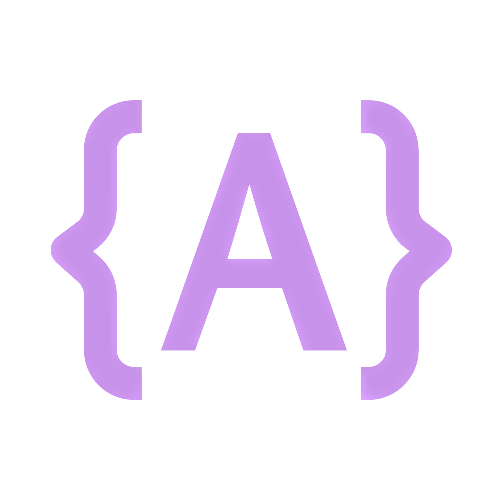
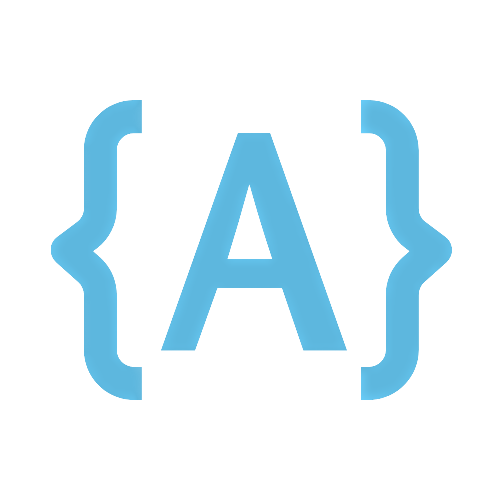
colors

Changed region(s): [[0.33, 0.24, 0.69, 0.72], [0.09, 0.18, 0.3, 0.81], [0.72, 0.18, 0.9, 0.81]]

diff --git a/assets/css/styles.min.css b/assets/css/styles.min.css
@@ -1,1 +1,1 @@
-body{font-family:"Open Sans",sans-serif;background:#292d3e;color:#c3e88d;margin:0}section{margin:20px 0 0 0;text-align:center}section .section-title{text-align:center;font-size:32px;font-weight:bold;text-transform:uppercase;margin:0 0 20px 0;padding:0 0 20px 0;position:relative}section .section-title::before{content:"";position:absolute;display:block;width:120px;height:1px;background:#ddd;bottom:1px;left:calc(50% - 60px)}section .section-title::after{content:"";position:absolute;display:block;width:40px;height:3px;background:#c792e9;bottom:0;left:calc(50% - 20px)}section .section-content{margin:120px 0 160px 160px}a:link{text-decoration:none}a:visited{text-decoration:none}@media screen and (min-width: 768px)and (max-width: 1024px){section .section-content{margin:80px 40px 0 40px}}@media screen and (max-width: 768px){section{margin:0 40px 0 40px;padding:30px 0}section .section-content{margin:40px 0 0 0}}.presentation{height:100vh;margin:0 160px 0 160px;display:grid;place-items:center}@media screen and (max-width: 768px){.presentation{margin:0 0 0 0;text-align:center}}.presentation .section-content{display:flex;flex-direction:row;justify-content:center;align-items:flex-start;margin:0;text-align:left}@media screen and (max-width: 768px){.presentation .section-content{flex-direction:column;text-align:center}}.presentation .section-content .container{padding:20px}@media screen and (max-width: 768px){.presentation .section-content .container{width:100%;padding:0}}.presentation .section-content .container img{max-height:75px;width:auto;margin:0 0 25px 0}.presentation .section-content .container h1{margin:0;font-size:48px;font-weight:700;line-height:56px}@media screen and (max-width: 768px){.presentation .section-content .container h1{font-size:42px}}.presentation .section-content .container p{font-size:24px;margin:10px 0 0 0}@media screen and (max-width: 768px){.presentation .section-content .container p{font-size:18px;margin:0 0 0 0}}.presentation .section-content .container span{font-size:24px;color:#c792e9;margin:0}@media screen and (max-width: 768px){.presentation .section-content .container span{font-size:18px}}.presentation .section-content .container .social-links{margin:20px 0 0 0}.presentation .section-content .container .social-links img{height:32px;margin:10px;color:#c3e88d;filter:brightness(0%) invert(95%)}.presentation .section-content .container .social-links img:hover{filter:brightness(100%) contrast(100%)}.presentation .skills{padding:20px;margin:0 0 100px 0}@media screen and (max-width: 768px){.presentation .skills{padding:60px 0 0 0;margin:0}}.presentation .skills .skills-content{margin:80px 0 0 0;display:grid;place-items:center;grid-template-columns:repeat(6, 1fr);gap:20px}@media screen and (max-width: 768px){.presentation .skills .skills-content{grid-template-columns:repeat(4, 1fr)}}.presentation .skills .skills-content img{max-height:42px;width:auto;filter:brightness(100%) contrast(30%)}.presentation .skills .skills-content img:hover{filter:brightness(100%) contrast(100%)}.portfolio .section-content{display:grid;grid-template-columns:repeat(2, 1fr);gap:40px}.portfolio .section-content .portfolio-item{display:flex;justify-content:flex-start;align-items:flex-start;align-items:center}.portfolio .section-content .portfolio-item .img-project{border:2.5px solid #c792e9;border-radius:8px;height:375px;width:auto}.portfolio .section-content .portfolio-item .webview{width:240px !important;height:auto !important}.portfolio .section-content .portfolio-item .item{margin:0 2.5px 0 0;padding:10px 10px 10px 20px;text-align:left}.portfolio .section-content .portfolio-item .item .title{font-size:20px;font-weight:600;margin:0 5px 0 0}.portfolio .section-content .portfolio-item .item .subtitle{color:#c792e9;font-size:14px;text-transform:uppercase;margin:0 0 5px 0}.portfolio .section-content .portfolio-item .item .badges{margin:5px 0 0 0}.portfolio .section-content .portfolio-item .item .badges .badge{display:inline-block;padding:5px 10px;margin:5px;background-color:#c792e9;color:#292d3e;font-size:10px;border-radius:25px}.portfolio .section-content .portfolio-item .item .dev img{max-height:20px;width:auto;margin:2.5px;padding:0 2.5px}@media screen and (min-width: 768px)and (max-width: 1024px){.portfolio .section-content{grid-template-columns:repeat(2, 1fr);gap:10px}.portfolio .section-content .portfolio-item .item{left:0px;right:0px}}@media screen and (max-width: 768px){.portfolio .section-content{grid-template-columns:repeat(1, 1fr);gap:5px}.portfolio .section-content .portfolio-item{display:grid;place-items:center;justify-content:center;align-items:center}.portfolio .section-content .portfolio-item .item{left:0px;right:0px;text-align:center}}.contact{text-align:center;padding:50px 0}.contact h2{font-size:24px}.contact h4{font-size:22px;font-weight:600;margin:0 5px 0 0}.contact p{margin:0 0 20px 0;font-size:16px;color:#c792e9}.contact a{margin:0 0 20px 0;font-size:16px;color:#c792e9}.contact .section-content{text-align:center;max-width:300px;margin:60px auto}footer{background:#4c5372;font-size:14px;text-align:center;padding:30px 0 60px 0;color:#c3e88d}footer h3{font-size:36px;font-weight:700;position:relative;padding:0;margin:0 0 0 15px}footer p{font-style:italic;color:#c792e9;padding:0;margin:0 0 20px 0}footer .social-links img{height:32px;margin:10px;filter:brightness(0%) invert(95%)}footer .social-links img:hover{filter:brightness(100%) contrast(100%)}
+body{font-family:"Open Sans",sans-serif;background:#204b57;color:#f1e9db;margin:0}section{margin:20px 0 0 0;text-align:center}section .section-title{text-align:center;font-size:32px;font-weight:bold;text-transform:uppercase;margin:0 0 20px 0;padding:0 0 20px 0;position:relative}section .section-title::before{content:"";position:absolute;display:block;width:120px;height:1px;background:#ddd;bottom:1px;left:calc(50% - 60px)}section .section-title::after{content:"";position:absolute;display:block;width:40px;height:3px;background:#5db7de;bottom:0;left:calc(50% - 20px)}section .section-content{margin:120px 0 160px 160px}a:link{text-decoration:none}a:visited{text-decoration:none}@media screen and (min-width: 768px)and (max-width: 1024px){section .section-content{margin:80px 40px 0 40px}}@media screen and (max-width: 768px){section{margin:0 40px 0 40px;padding:30px 0}section .section-content{margin:40px 0 0 0}}.presentation{height:100vh;margin:0 160px 0 160px;display:grid;place-items:center}@media screen and (max-width: 768px){.presentation{margin:0 0 0 0;text-align:center}}.presentation .section-content{display:flex;flex-direction:row;justify-content:center;align-items:flex-start;margin:0;text-align:left}@media screen and (max-width: 768px){.presentation .section-content{flex-direction:column;text-align:center}}.presentation .section-content .container{padding:20px}@media screen and (max-width: 768px){.presentation .section-content .container{width:100%;padding:0}}.presentation .section-content .container img{max-height:75px;width:auto;margin:0 0 25px 0}.presentation .section-content .container h1{margin:0;font-size:48px;font-weight:700;line-height:56px}@media screen and (max-width: 768px){.presentation .section-content .container h1{font-size:42px}}.presentation .section-content .container p{font-size:24px;margin:10px 0 0 0}@media screen and (max-width: 768px){.presentation .section-content .container p{font-size:18px;margin:0 0 0 0}}.presentation .section-content .container span{font-size:24px;color:#5db7de;margin:0}@media screen and (max-width: 768px){.presentation .section-content .container span{font-size:18px}}.presentation .section-content .container .social-links{margin:20px 0 0 0}.presentation .section-content .container .social-links img{height:32px;margin:10px;color:#f1e9db;filter:brightness(0%) invert(95%)}.presentation .skills{padding:20px;margin:0 0 100px 0}@media screen and (max-width: 768px){.presentation .skills{padding:60px 0 0 0;margin:0}}.presentation .skills .skills-content{margin:80px 0 0 0;display:grid;place-items:center;grid-template-columns:repeat(6, 1fr);gap:20px}@media screen and (max-width: 768px){.presentation .skills .skills-content{grid-template-columns:repeat(4, 1fr)}}.presentation .skills .skills-content img{max-height:42px;width:auto;filter:brightness(100%) contrast(30%)}.presentation .skills .skills-content img:hover{filter:brightness(100%) contrast(100%)}.portfolio .section-content{display:grid;grid-template-columns:repeat(2, 1fr);gap:40px}.portfolio .section-content .portfolio-item{display:flex;justify-content:flex-start;align-items:flex-start;align-items:center}.portfolio .section-content .portfolio-item .img-project{border:2.5px solid #5db7de;border-radius:8px;height:375px;width:auto}.portfolio .section-content .portfolio-item .webview{width:240px !important;height:auto !important}.portfolio .section-content .portfolio-item .item{margin:0 2.5px 0 0;padding:10px 10px 10px 20px;text-align:left}.portfolio .section-content .portfolio-item .item .title{font-size:20px;font-weight:600;margin:0 5px 0 0}.portfolio .section-content .portfolio-item .item .subtitle{color:#5db7de;font-size:14px;text-transform:uppercase;margin:0 0 5px 0}.portfolio .section-content .portfolio-item .item .badges{margin:5px 0 0 0}.portfolio .section-content .portfolio-item .item .badges .badge{display:inline-block;padding:5px 10px;margin:5px;background-color:#5db7de;color:#204b57;font-size:10px;border-radius:25px}.portfolio .section-content .portfolio-item .item .dev img{max-height:20px;width:auto;margin:2.5px;padding:0 2.5px}@media screen and (min-width: 768px)and (max-width: 1024px){.portfolio .section-content{grid-template-columns:repeat(2, 1fr);gap:10px}.portfolio .section-content .portfolio-item .item{left:0px;right:0px}}@media screen and (max-width: 768px){.portfolio .section-content{grid-template-columns:repeat(1, 1fr);gap:5px}.portfolio .section-content .portfolio-item{display:grid;place-items:center;justify-content:center;align-items:center}.portfolio .section-content .portfolio-item .item{left:0px;right:0px;text-align:center}}.contact{text-align:center;padding:50px 0}.contact h2{font-size:24px}.contact h4{font-size:22px;font-weight:600;margin:0 5px 0 0}.contact p{margin:0 0 20px 0;font-size:16px;color:#5db7de}.contact a{margin:0 0 20px 0;font-size:16px;color:#5db7de}.contact .section-content{text-align:center;max-width:300px;margin:60px auto}footer{background:#5c6d70;font-size:14px;text-align:center;padding:30px 0 60px 0;color:#f1e9db}footer h3{font-size:36px;font-weight:700;position:relative;padding:0;margin:0 0 0 15px}footer p{font-style:italic;color:#5db7de;padding:0;margin:0 0 20px 0}footer .social-links img{height:32px;margin:10px;filter:brightness(0%) invert(95%)}

diff --git a/assets/sass/content/presentation.scss b/assets/sass/content/presentation.scss
@@ -61,9 +61,9 @@
           margin: 10px;
           color: $color-alterno;
           filter: brightness(0%) invert(95%);
-          &:hover {
-            filter: brightness(100%) contrast(100%);
-          }
+          // &:hover {
+          //   filter: brightness(100%) contrast(100%);
+          // }
         }
       }
     }
@@ -89,13 +89,9 @@
         max-height: 42px;
         width: auto;
         filter: brightness(100%) contrast(30%);
-        // filter: brightness(40%) invert(95%);
         &:hover {
           filter: brightness(100%) contrast(100%);
         }
-        // @media screen and (max-width: 768px) {
-        //   filter: brightness(65%) contrast(65%);
-        // }
       }
     }
   }

diff --git a/assets/sass/content/footer.scss b/assets/sass/content/footer.scss
@@ -22,9 +22,9 @@ footer {
       height: 32px;
       margin: 10px;
       filter: brightness(0%) invert(95%);
-      &:hover {
-        filter: brightness(100%) contrast(100%);
-      }
+      // &:hover {
+      //   filter: brightness(100%) contrast(100%);
+      // }
     }
   }
 }

diff --git a/assets/sass/colors.scss b/assets/sass/colors.scss
@@ -1,7 +1,5 @@
-$color-primario: #c792e9;
-$color-base: #292d3e;
-// $color-base
-$color-base2: #4c5372;
-// $color-base2
-$color-alterno: #c3e88d;
-// $color-gris2: #c792e9;
+$color-primario: #5db7de;
+$color-alterno: #f1e9db;
+
+$color-base: #204b57;
+$color-base2: #5c6d70;
